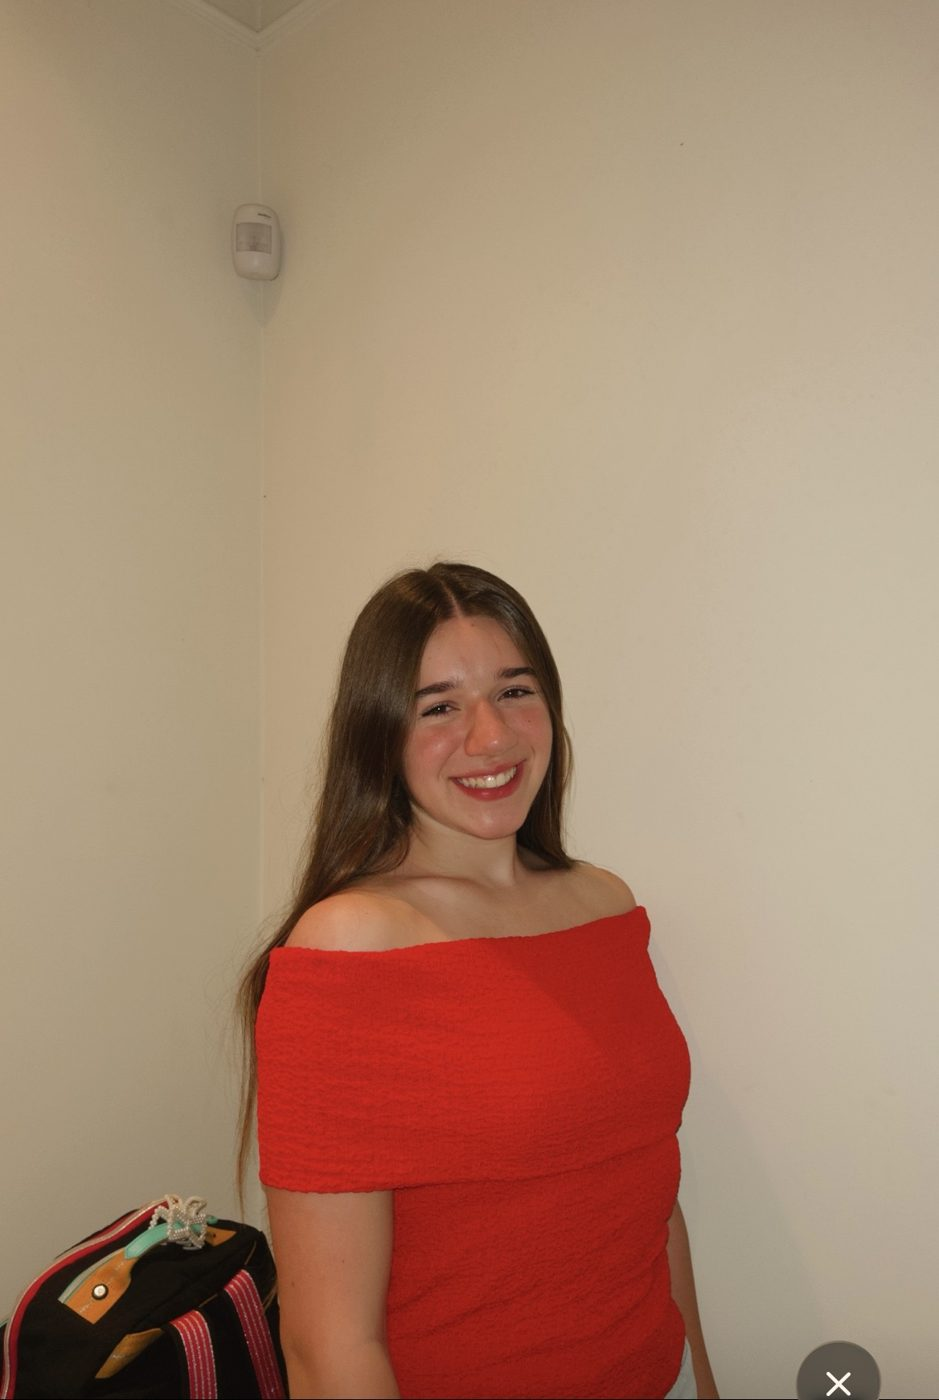
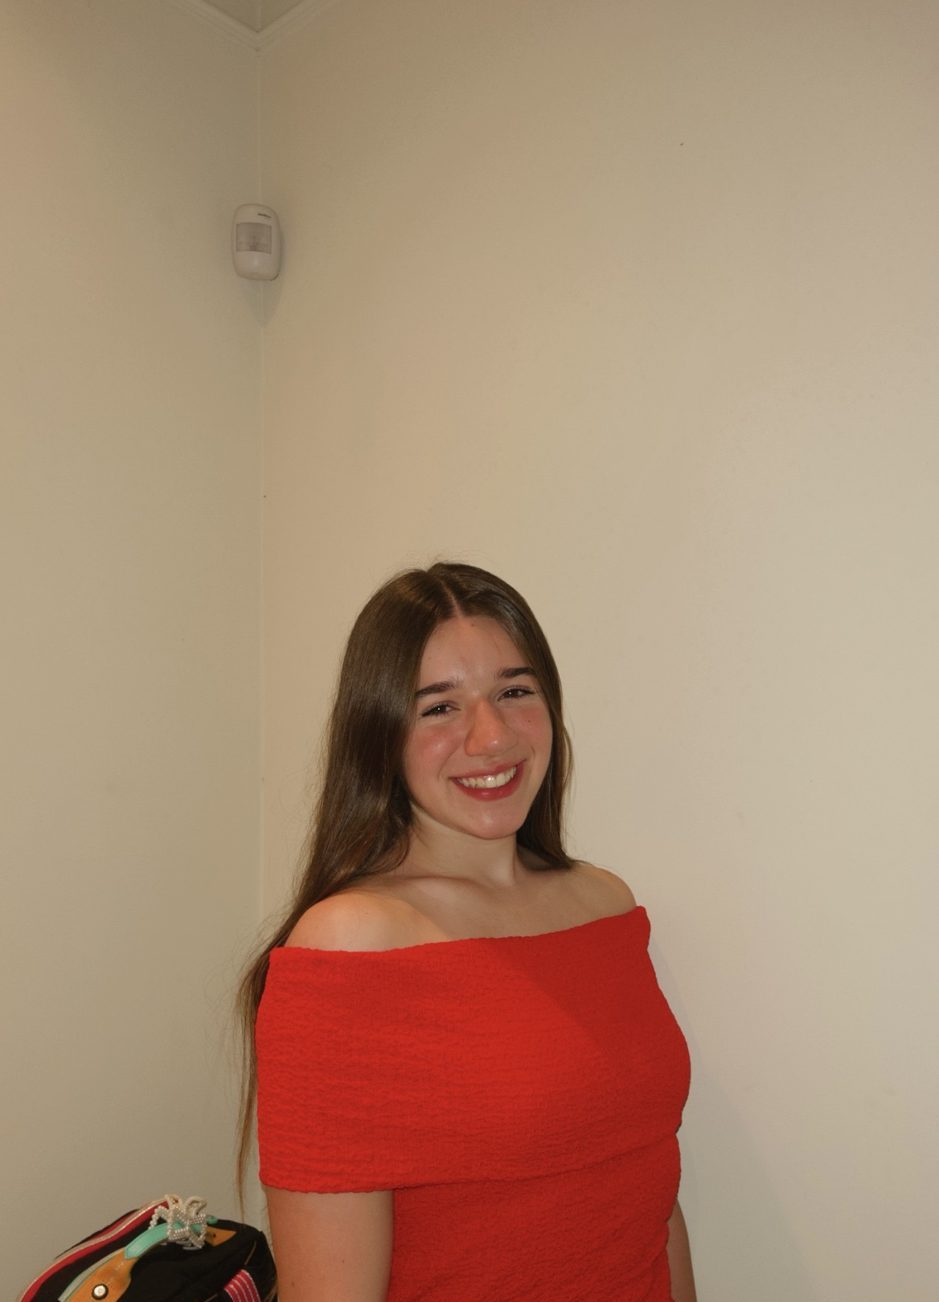
Gallery flows in columns with no empty slot; photo 8 upright; photo 9 trimmed; agenda buttons outside the card
Claude-Session: https://claude.ai/code/session_01H4FYBwtTJez72yoVn3SQiq

Changed region(s): [[0.0, 0.3994, 0.803, 1.0], [0.8339, 0.9524, 0.9883, 1.0], [0.2471, 0.1843, 0.278, 0.2151]]

diff --git a/assets/site.css b/assets/site.css
@@ -84,7 +84,7 @@ footer .credito a{color:var(--muted)}
 
 /* fatos */
 .fatos{display:grid;grid-template-columns:repeat(auto-fit,minmax(220px,1fr));gap:16px;padding-block:8px 40px}
-.fatos div{background:var(--paper);border:1px solid var(--line);padding:18px 20px;font-size:var(--lead);line-height:1.45}
+.fatos>div:not(.acoes){background:var(--paper);border:1px solid var(--line);padding:18px 20px;font-size:var(--lead);line-height:1.45}
 .fatos div b{display:block;font-size:12px;letter-spacing:.2em;text-transform:uppercase;color:var(--gold);font-weight:500;margin-bottom:6px}
 .fatos div small{display:block;color:var(--muted);font-size:15px;margin-top:4px}
 .fatos .acoes{grid-column:1/-1;display:flex;flex-wrap:wrap;gap:10px;margin-top:4px}
@@ -119,14 +119,12 @@ section.bloco+section.bloco{border-top:1px solid var(--line)}
 .recado-lorena small{display:block;font-family:var(--body);font-style:normal;font-size:13px;letter-spacing:.18em;text-transform:uppercase;color:var(--muted);margin-top:10px}
 
 /* galeria */
-.galeria{display:grid;grid-template-columns:repeat(3,1fr);gap:28px 24px;grid-auto-flow:dense}
-.galeria .ano{grid-column:1/-1;font-size:clamp(56px,9vw,120px);color:transparent;-webkit-text-stroke:1px var(--rose);letter-spacing:.08em;margin:24px 0 -8px;text-align:right}
-.galeria figure{margin:0;background:#fff;padding:10px 10px 34px;box-shadow:0 12px 30px rgba(58,42,48,.12);transition:transform .2s;position:relative;cursor:default}
+.galeria{columns:3;column-gap:24px}
+.galeria .ano{column-span:all;font-size:clamp(56px,9vw,120px);color:transparent;-webkit-text-stroke:1px var(--rose);letter-spacing:.08em;margin:24px 0 -8px;text-align:right}
+.galeria figure{margin:0 0 28px;display:block;break-inside:avoid;background:#fff;padding:10px 10px 34px;box-shadow:0 12px 30px rgba(58,42,48,.12);transition:transform .2s;position:relative;cursor:default}
 .galeria figure.r1{transform:rotate(-2deg)}.galeria figure.r2{transform:rotate(1.5deg)}.galeria figure.r3{transform:rotate(-1deg)}
 .galeria figure:hover{transform:rotate(0) scale(1.02)}
-.galeria figure.wide{grid-column:span 2}
-.galeria figure.wide img{aspect-ratio:3/2}
-.galeria img{aspect-ratio:4/5;object-fit:cover;object-position:50% 30%;width:100%;background:var(--blush);filter:saturate(.94) contrast(1.02)}
+.galeria img{width:100%;height:auto;background:var(--blush);filter:saturate(.94) contrast(1.02)}
 .galeria figcaption{position:absolute;left:10px;right:10px;bottom:9px;font-family:var(--italic);font-style:italic;font-size:14px;color:var(--muted);text-align:center;white-space:nowrap;overflow:hidden;text-overflow:ellipsis}
 @media (prefers-reduced-motion:no-preference){
   .galeria img,.polaroid img{opacity:0;transition:opacity .5s ease}
@@ -238,8 +236,8 @@ footer .estrela{color:var(--gold)}
   .capa .txt .eyebrow{white-space:normal}
   .capa::before{font-size:200px;right:0;top:auto;bottom:40%}
   .duas{grid-template-columns:1fr;gap:28px}
-  .galeria{grid-template-columns:repeat(2,1fr);gap:22px 16px}
-  .galeria figure{padding:8px 8px 26px}
+  .galeria{columns:2;column-gap:16px}
+  .galeria figure{padding:8px 8px 26px;margin-bottom:22px}
   .galeria figcaption{bottom:5px;font-size:12px;left:8px;right:8px}
   .lista{columns:1}
   form.f .linha{grid-template-columns:1fr}

diff --git a/perguntas.html b/perguntas.html
@@ -7,7 +7,7 @@
 <title>Perguntas · Os 15 da Lorena</title>
 <link rel="icon" type="image/png" sizes="32x32" href="assets/favicon-32.png">
 <link rel="stylesheet" href="https://fonts.googleapis.com/css2?family=Italiana&family=Bodoni+Moda:ital,opsz,wght@1,6..96,400&family=Jost:wght@400;500&display=swap">
-<link rel="stylesheet" href="assets/site.css?v=20261112a">
+<link rel="stylesheet" href="assets/site.css?v=20261112b">
 <style>
   main.wrap{padding-block:40px 120px;max-width:860px}
   .intro{font-size:var(--lead);color:var(--muted);max-width:36em}
@@ -40,7 +40,7 @@
   .bar .st{font-size:14px;color:var(--muted)}
   .obrigada{margin-top:30px}
 </style>
-<script src="index-config.js?v=20261112a"></script>
+<script src="index-config.js?v=20261112b"></script>
 </head>
 <body class="aberta">
 <header class="topo"><div class="wrap"><a class="marca" href="index.html">Os 15 da Lorena</a><nav><a href="index.html">Ver o site</a></nav></div></header>

diff --git a/lista.html b/lista.html
@@ -7,7 +7,7 @@
 <title>Confirmações · Os 15 da Lorena</title>
 <link rel="icon" type="image/png" sizes="32x32" href="assets/favicon-32.png">
 <link rel="stylesheet" href="https://fonts.googleapis.com/css2?family=Italiana&family=Bodoni+Moda:ital,opsz,wght@1,6..96,400&family=Jost:wght@400;500&display=swap">
-<link rel="stylesheet" href="assets/site.css?v=20261112a">
+<link rel="stylesheet" href="assets/site.css?v=20261112b">
 <style>
   main.wrap{padding-block:48px}
   .senha{max-width:440px}
@@ -29,7 +29,7 @@
   .vazio{color:var(--muted);padding:14px}
   pre{white-space:pre-wrap;font:14px/1.5 var(--body);margin:0}
 </style>
-<script src="index-config.js?v=20261112a"></script>
+<script src="index-config.js?v=20261112b"></script>
 </head>
 <body class="aberta">
 <header class="topo"><div class="wrap"><a class="marca" href="index.html">Os 15 da Lorena</a><nav><a href="index.html">Voltar ao site</a></nav></div></header>

diff --git a/index.html b/index.html
@@ -22,8 +22,8 @@
 <link rel="preconnect" href="https://fonts.googleapis.com">
 <link rel="preconnect" href="https://fonts.gstatic.com" crossorigin>
 <link rel="stylesheet" href="https://fonts.googleapis.com/css2?family=Italiana&family=Bodoni+Moda:ital,opsz,wght@1,6..96,400&family=Jost:wght@400;500&display=swap">
-<link rel="stylesheet" href="assets/site.css?v=20261112a">
-<script src="index-config.js?v=20261112a"></script>
+<link rel="stylesheet" href="assets/site.css?v=20261112b">
+<script src="index-config.js?v=20261112b"></script>
 </head>
 <body class="sem-fontes">
 
@@ -323,6 +323,6 @@
   <a class="btn leve" href="#local">Como chegar</a>
 </div>
 
-<script src="assets/site.js?v=20261112a"></script>
+<script src="assets/site.js?v=20261112b"></script>
 </body>
 </html>
